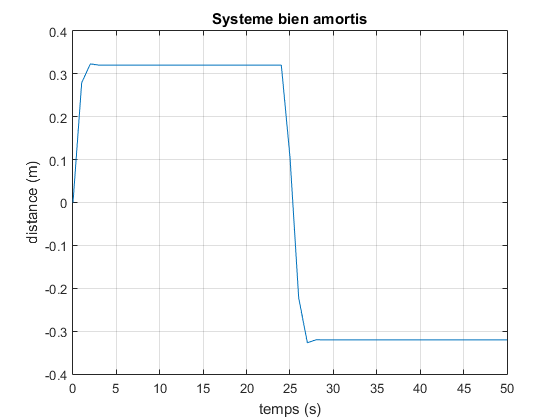
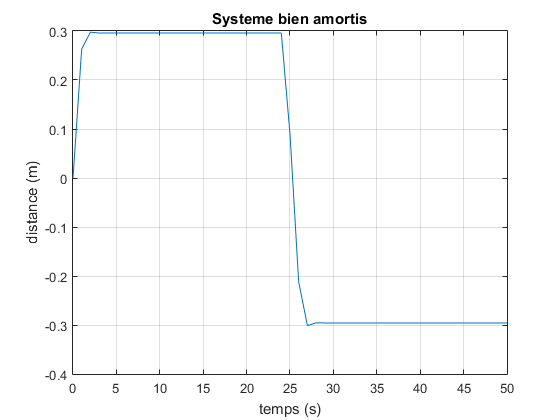
Update charts for new k const.
With new k, 2 springs in parallel gives over 15 cm min distance

diff --git a/TracteurEtRemorqueSimMESSINGVALUES.m b/TracteurEtRemorqueSimMESSINGVALUES.m
@@ -1,6 +1,6 @@
 clc;clear;
 
-k=120000;    %constante du ressort [N/m]         40000
+k=260000;    %constante de 2 ressorts [N/m]         40000
 b=37000;    %constante d'amortisseur [N/ms]     30000
 mT=9000;    %masse du tracteur [kg]
 %you should take this: 9000
